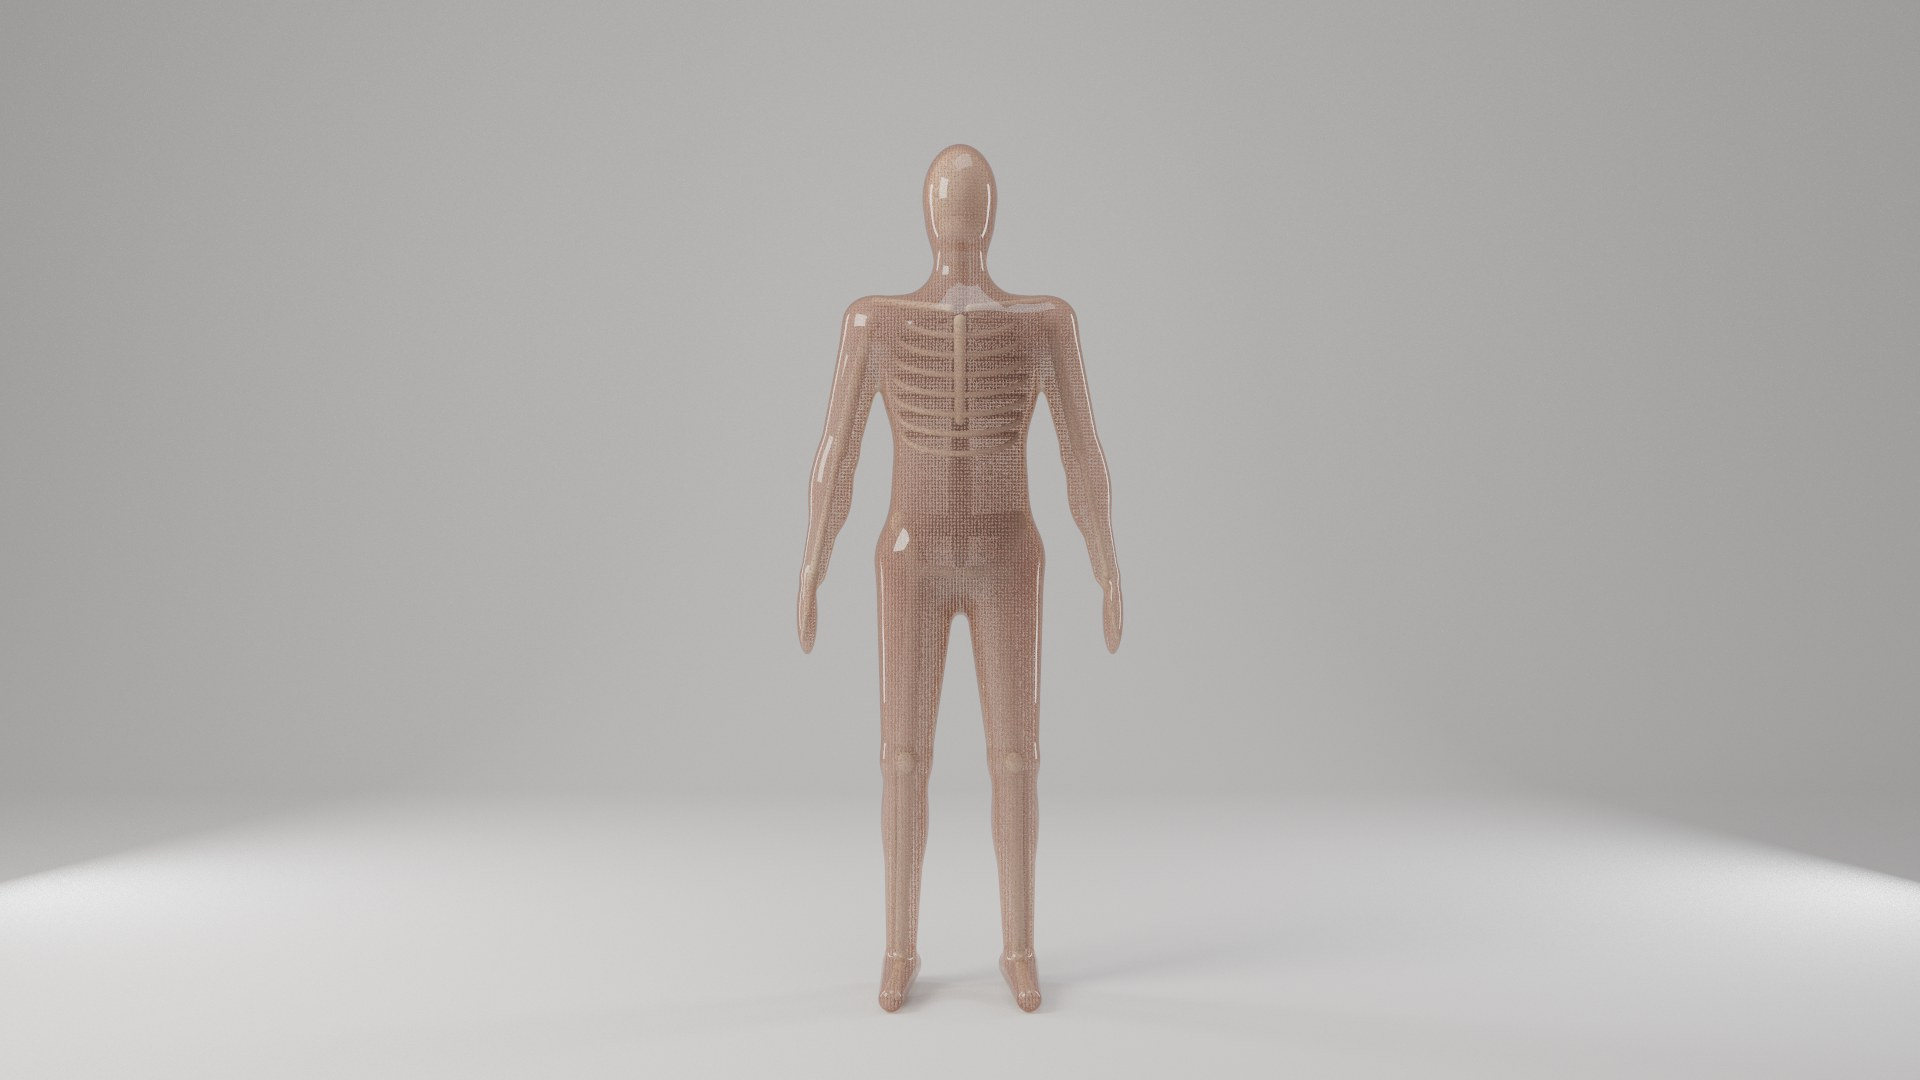
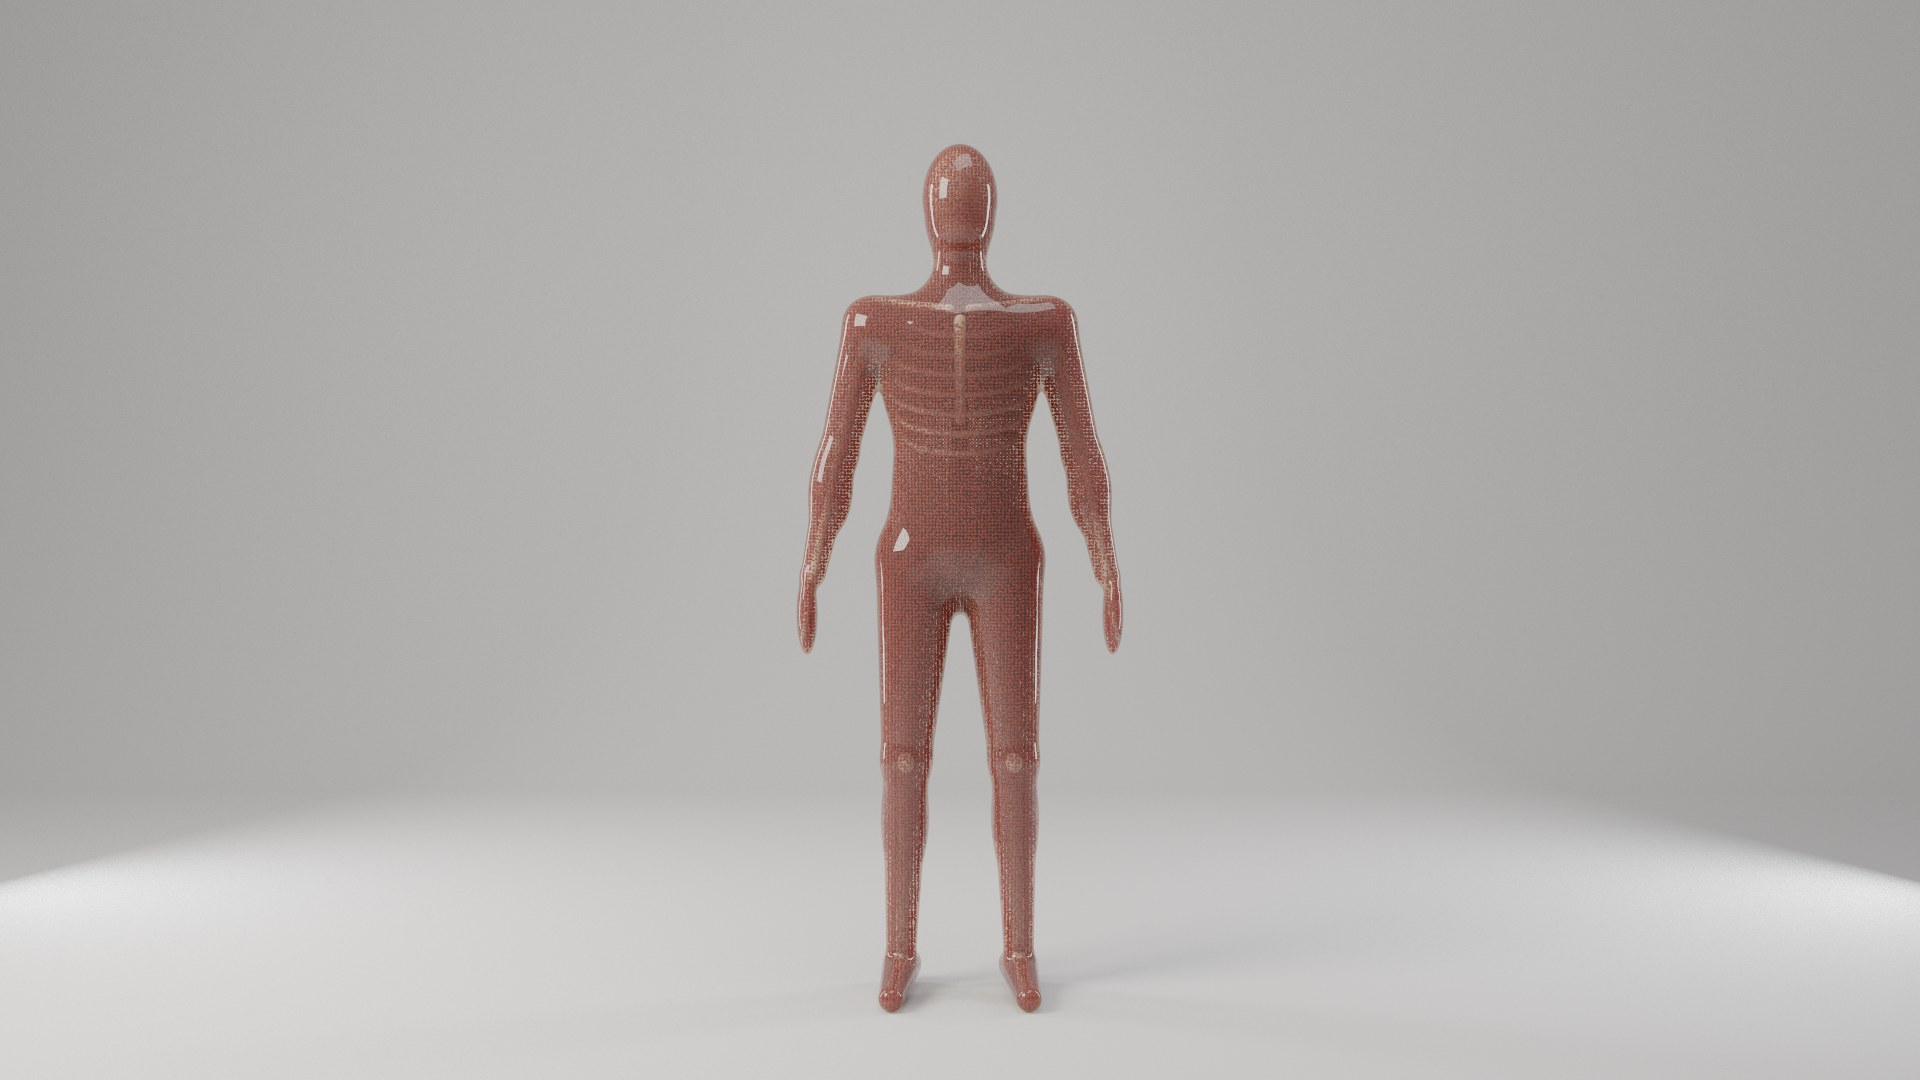
Tanecik: beden kanla dolu (Özcan: gore kaygısı hiper gerçekçi beden içindi, bu bir manken)
Tanecikler koyu kan kırmızısı, çizim yarıçapı aralığın 0,3'ü (kanla dolu
okunur, kaburgalar seçilir). T0 kareleri ve galeri resmi yenilendi.

Claude-Session: https://claude.ai/code/session_01Czcvea3MUZUkmiypWoZfpa

Changed region(s): [[0.4062, 0.1222, 0.5938, 0.9472]]

diff --git a/docs/tanecik/DURUM.md b/docs/tanecik/DURUM.md
@@ -33,10 +33,11 @@ bedenin sayıları `--scene tanecik --stats`.
   - **Cam:** ince, ten renkli bir kabuk. Her geçişte Fresnel yansıması (F0 0,04), %10'u deri gibi saçılır (biçimi
     verir), kalanı geçer ve kabuğun optik derinliği / |cos| kadar renk alır: kontur derinleşir. Optik derinlik
     (0,10 0,22 0,30); ilk denemedeki (0,22 0,48 0,65) içini kahverengi bir plastiğe çeviriyordu.
-  - **Renk kararı (tek renk + tek vurgu):** duran bedenin tanecikleri soluk pembe (0,80 0,55 0,50), kemik fildişi;
-    sahnedeki tek doygun renk hasarın serbest bıraktığı koyu kırmızı sıvı olacak (0,35 0,02 0,02). Kırmızı
-    taneciklerle dolu cam adam ilk denemede "kanla dolu" okunuyordu; Özcan gore istemiyor.
-  - **Tanecik görünümü:** hepsi (çizim yarıçapı aralığın 0,2'si: ince bir gren), seyrek (%10, 0,42) ya da gizli. Yalnız
+  - **Renk: kanla dolu.** Duran bedenin tanecikleri koyu kan kırmızısı (0,50 0,06 0,05), kemik fildişi. Önce soluk
+    pembeye çevirmiştim (gore kaygısıyla); Özcan düzeltti: *"Gore derken ben onu çok gerçekçi beden yaparsak diye dedim.
+    Kanla dolu olması güzel olur. [...] Gerçekte de kanla dolar çünkü. [...] Burada adam manken zaten."* Çizim yarıçapı
+    aralığın 0,3'ü: kanla dolu okunur, kaburgalar seçilir (0,2 uzaktan solgun, 0,38 içini tümüyle kapatıyor).
+  - **Tanecik görünümü:** hepsi (çizim yarıçapı aralığın 0,3'ü), seyrek (%10, 0,42) ya da gizli. Yalnız
     görüntü, fizik hepsini hesaplar.
   - **Deri:** opak, mat ten rengi (0,55 0,36 0,27) ve hafif parlaklık.
 - **Canlı pencere:** kamera mankenin etrafında döner (sağ tık + fare, tekerlek, E/Q); V cam/deri, N tanecikler, K

diff --git a/docs/tanecik/PLAN.md b/docs/tanecik/PLAN.md
@@ -39,6 +39,9 @@ devamı: **yumuşak cisim ve sıvı**, her şey tanecik. Özcan (2026-10-02), bi
   seviyede."*
 - Malzemeler: *"Su/kan (kandan kastım insan içindeki sıvı anlamında). Kum, bal gibi koyu sıvı. Yeterli olur."*
 - El aracı: *"Olur el de ekleyelim."*
+- Gore'un anlamı (T0'dan sonra): *"Gore derken ben onu çok gerçekçi beden yaparsak diye dedim. Kanla dolu olması güzel
+  olur. [...] Gerçekte de kanla dolar çünkü. Benim gore dememin nedeni hypergerçekçi bir yüze ve vücuda sahip bir şeye
+  bunları yapmak doğru olmaz dedim. Burada adam manken zaten."* → beden kanla dolu çizilir.
 - Onay ve çerçeve: *"Aynen zor kısımları optimize etmekte özgürsün illa şöyle böyle olacak değil, yeterince iyi
   seviyedeyse okey deriz. Onaylıyorum. Başlayabilirsin."*
 
